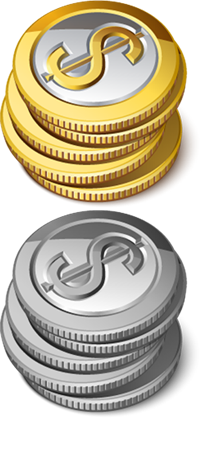
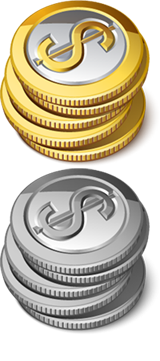
fix homepage

diff --git a/templates/green/css/template.css b/templates/green/css/template.css
@@ -369,43 +369,6 @@ ul.nav.menu,
 .navbar .container {
 	width: 940px;
 }
-@media (max-width: 767px) {
-	.navbar .container {
-		width: auto;
-	}
-}
-@media (min-width: 1200px) {
-	.navbar .container {
-		width: 1170px;
-	}
-}
-@media (max-width: 979px) {
-	.nav-collapse .nav > li > a {
-		float:none;
-		-webkit-border-radius: 0px;
-		-moz-border-radius: 0px;
-		border-radius: 0px;
-	}
-	.nav-collapse .nav > li {
-		float:left;
-	}
-	.navbar-toggle {
-		display: block;
-	}
-	.nav-collapse .dropdown-menu a {
-		-webkit-border-radius: 0px;
-		-moz-border-radius: 0px;
-		border-radius: 0px;
-	}
-/*	.navbar .nav > .active > a, */
-	.navbar .nav > .active > a:hover, 
-	.navbar .nav > .active > a:focus, 
-	.navbar .nav > li > a:focus, 
-	.navbar .nav > li > a:hover {
-		background-color: #009edb;
-		color: #8ed8f8;
-	}
-}
 select, textarea, input[type="text"], 
 input[type="password"], input[type="datetime"], 
 input[type="datetime-local"], input[type="date"], 
@@ -452,27 +415,27 @@ input[type="url"], input[type="search"], input[type="tel"], input[type="color"],
 	height: 200px;
 }
 #tbl_coin, #tbl_coin a:hover {
-	background: url(../images/tbl_coin.png) no-repeat 0px -206px;
-	height: 210px;
-	width: 195px;
+	background: url(../images/tbl_coin.png) no-repeat 0px -168px;
+	height: 168px;
+	width: 160px;
 }
 #tbl_coin a:hover {
-	background-position: 0px 4px;
+	background-position: 0px 0px;
 }
 #tbl_coin a {
-	height: 210px;
+	height: 168px;
 }
 #tbl_picture, #tbl_picture a:hover {
-	background: url(../images/tbl_picture.png) no-repeat 0px -303px;
+	background: url(../images/tbl_picture.png) no-repeat 0px -232px;
 	float: right;
-	height: 320px;
-	width: 420px;
+	height: 230px;
+	width: 300px;
 }
 #tbl_picture a:hover {
-	background-position: 0px 15px;
+	background-position: 0px 0px;
 }
 #tbl_picture a {
-	height: 320px;
+	height: 230px;
 }
 /* -------------------------------------------------Green-------------------------------------------------------- */
 body {
@@ -484,12 +447,73 @@ body {
 	
 }
 body#homepage {
-	background: url('../images/bg_toibalo.png') ;
+	background: url('../images/bg_toibalo.png'); 
+	background-color: #c3936e;
 	background-size: 120%;
 	background-position: top;
 	background-repeat: no-repeat;
 }
 
+@media (max-width: 767px) {
+	.navbar .container {
+		width: auto;
+	}
+}
+@media (min-width: 1200px) {
+	.navbar .container {
+		width: 1170px;
+	}
+}
+@media (max-width: 979px) {
+	.nav-collapse .nav > li > a {
+		float:none;
+		-webkit-border-radius: 0px;
+		-moz-border-radius: 0px;
+		border-radius: 0px;
+	}
+	.nav-collapse .nav > li {
+		float:left;
+	}
+	.navbar-toggle {
+		display: block;
+	}
+	.nav-collapse .dropdown-menu a {
+		-webkit-border-radius: 0px;
+		-moz-border-radius: 0px;
+		border-radius: 0px;
+	}
+/*	.navbar .nav > .active > a, */
+	.navbar .nav > .active > a:hover, 
+	.navbar .nav > .active > a:focus, 
+	.navbar .nav > li > a:focus, 
+	.navbar .nav > li > a:hover {
+		background-color: #009edb;
+		color: #8ed8f8;
+	}
+	#tbl_cover {
+		display:none;
+	}
+	body#homepage {
+	background: url('../images/bg_toibalomini.png') !important ;
+	background-size: 100% !important;
+	}
+	#tbl_search {
+		width: 45%;
+		margin-left: 27%;
+	}
+	.tbl_search_title {
+		font-size: 2.7em;
+	}
+	.tbl_search_form select {
+		width: 70%;
+	}
+	#tbl_search .tbl_button {
+		width: 20%;
+	}
+	#tbl_search .tbl_button input {
+		height: 25px;
+	}
+}
 /***Default**/
 a,
 a:link,
